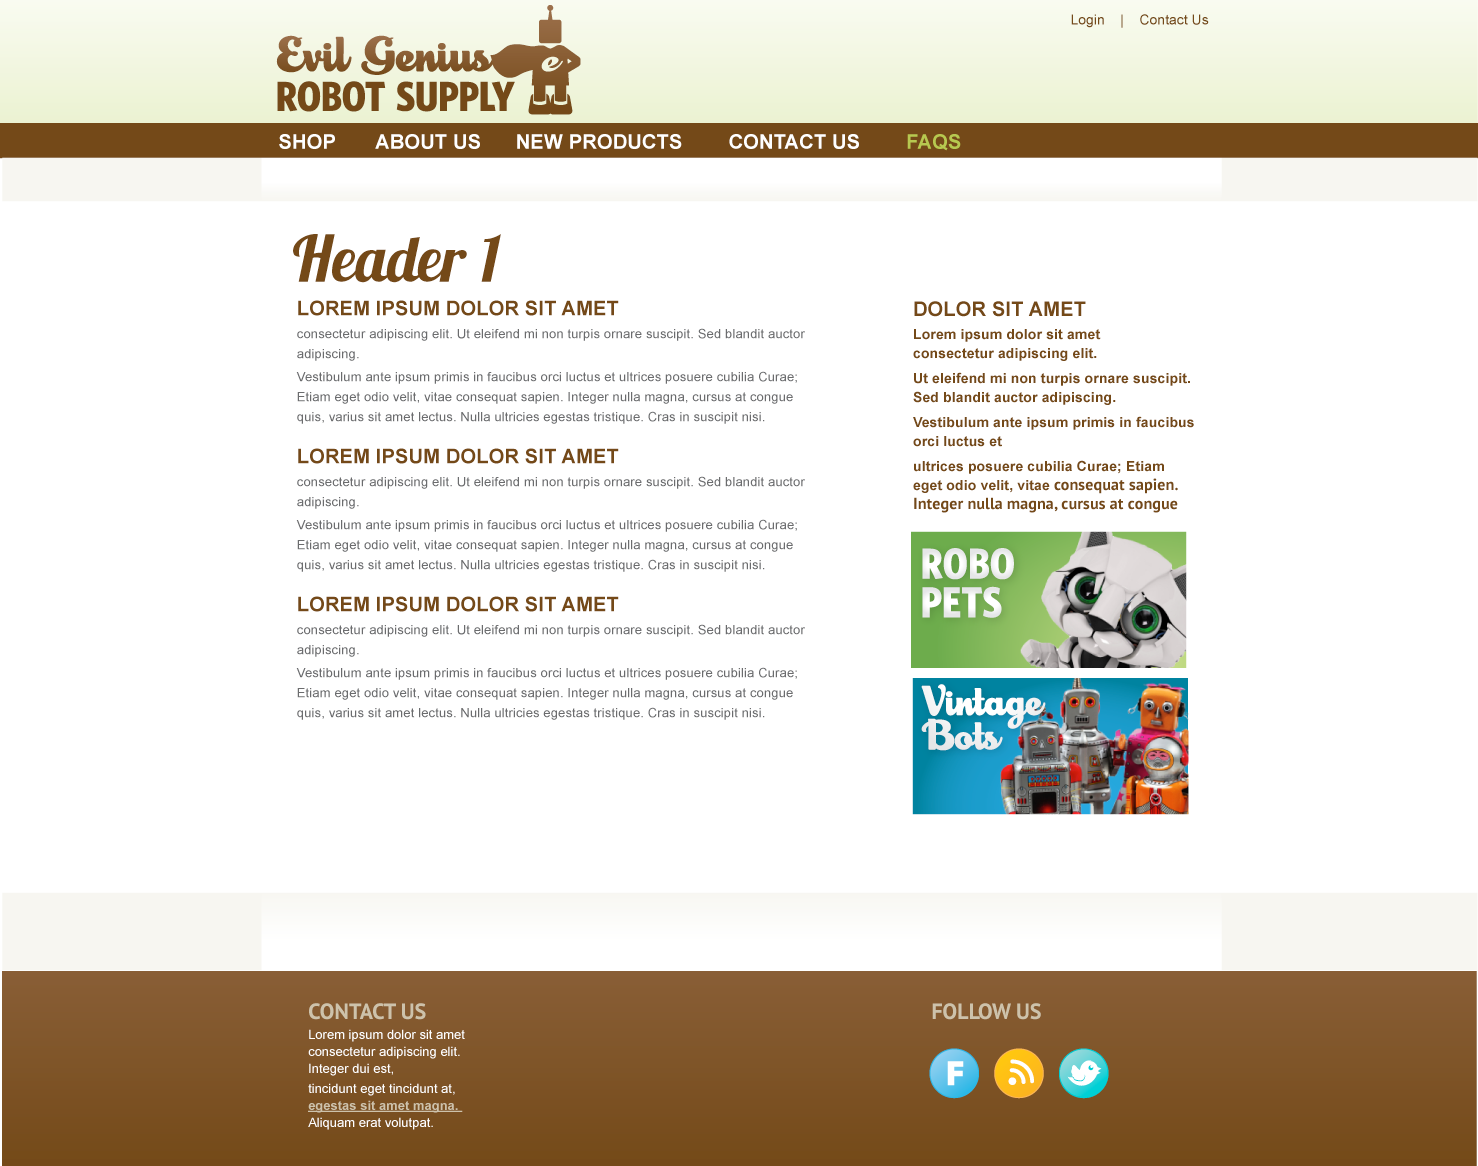
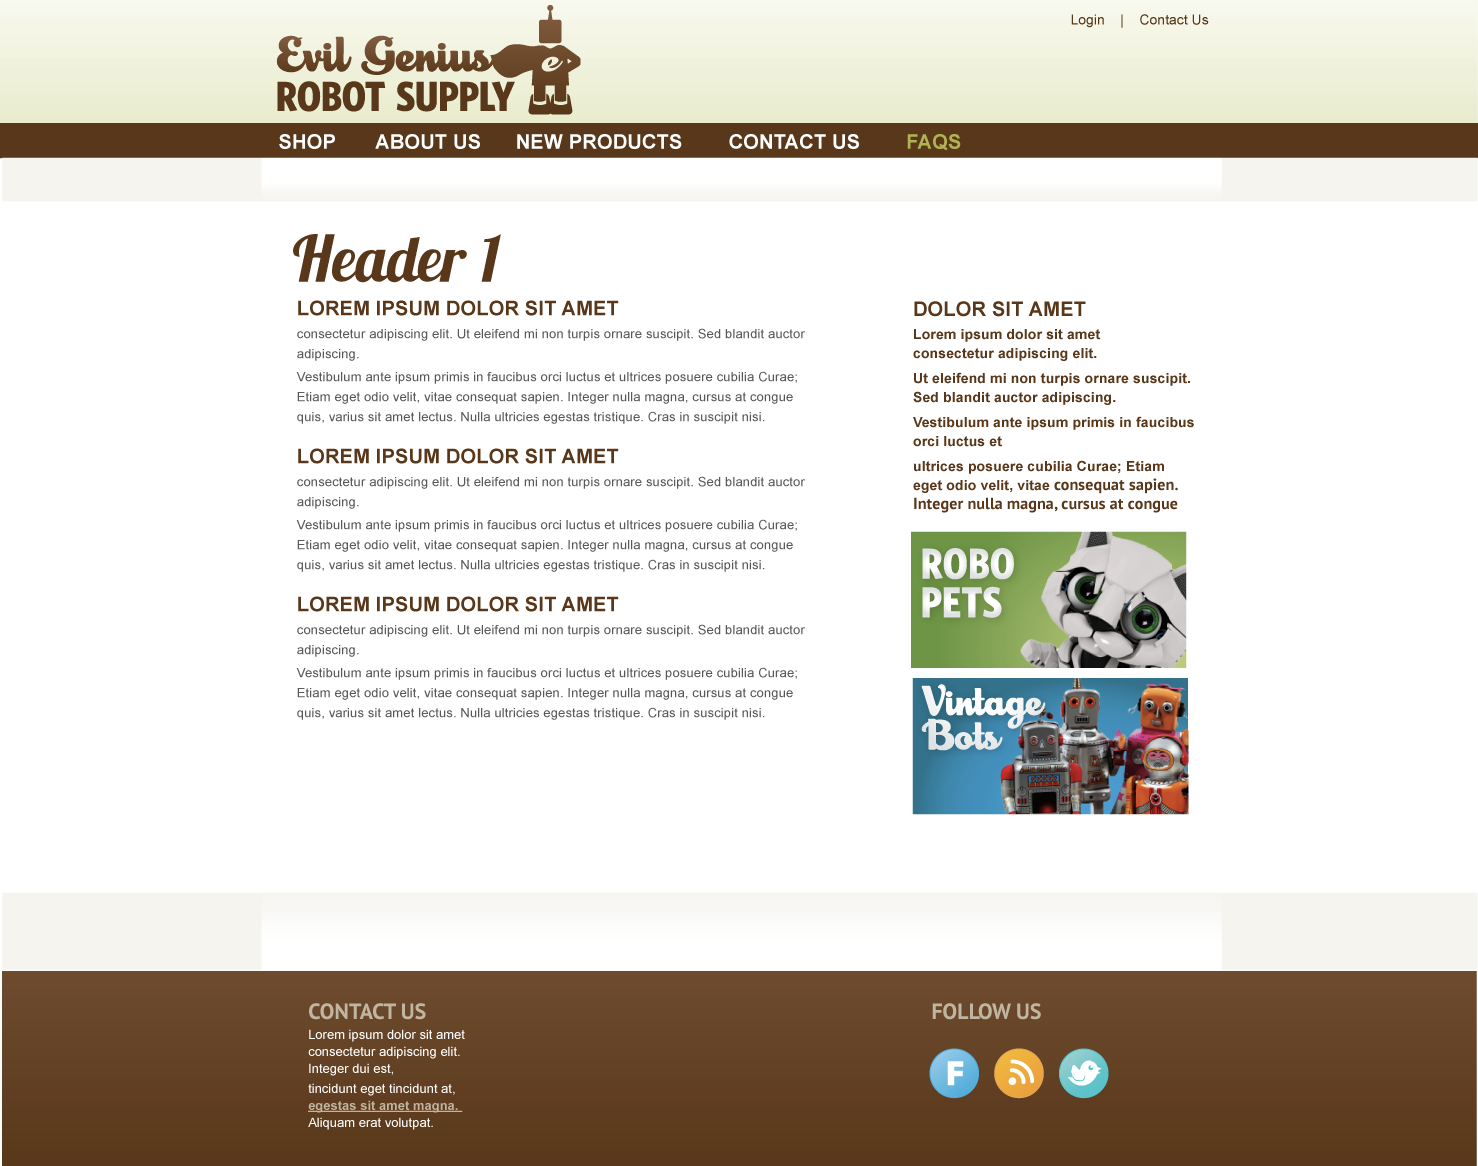
Exercise 2 Attempt

diff --git a/04-class-css/exercise2/style.css b/04-class-css/exercise2/style.css
@@ -50,3 +50,142 @@ table {
 	border-spacing: 0;
 }
 
+body { 
+	width:960px; 
+	margin:0 auto; 
+	display:block; 
+}
+
+div#site-wrapper {
+	width: 100%;
+	height: 125px;
+	background-color: rgb(236,242,210);
+}
+
+header#site-header h1 {
+	background: url(images/logo.png) no-repeat;
+	height: 120px;
+	width: 450px;
+	position: relative;
+	padding-left: 
+	
+}
+
+header#site-header nav {
+	font-family: arial;
+	font-size: .8em; 
+	float: right;
+	top: 25px;
+	right: 0;
+	width: 200px;
+	color: rgb(116,73,24)
+	
+}
+
+div#menu-wrapper {
+	background-color: rgb(116,73,24);
+	height: 30px;
+	margin-bottom: 10px;
+}
+
+nav#main-menu ul li {
+	display: inline;
+	width: 100%;
+}
+
+nav#main-menu ul li a {
+	font-family: arial;
+	font-size: 1.3em;
+	color: white;
+	margin-right: 20px;
+	text-transform: uppercase;
+	text-decoration: none;
+	
+}
+
+nav#main-menu ul li a:hover {
+	color:rgb(183,200,80);
+}
+
+div#content-wrapper {
+	float: left;
+	height:100%;
+	clear: both;
+	margin-bottom: 75px;
+}
+
+div#content-wrapper div#content article {
+	float: left;
+	width: 500px;
+	margin-right: 200px
+	
+}
+
+div#content-wrapper aside#sidebar {
+	float: right;
+	width: 160px;	
+}
+
+div#content-wrapper aside#sidebar a {
+	text-decoration: none;
+	font-family: arial;
+	color:rgb(116,73,24);
+	font-size: 1em;
+}
+
+div#footer-wrapper footer#site-footer {
+	width: 960px;
+	height: 150px;
+	float: left;
+	background-color: rgb(116,73,24);
+}
+
+div#footer-wrapper footer#site-footer section#footer-contact {
+	width: 150px;
+	float: left;
+}
+
+
+
+div#footer-wrapper footer#site-footer section#footer-follow {
+	float: right;
+}
+
+section#footer-follow h1, section#footer-contact h1 {
+	color: rgb(205,194,171);
+}
+
+div#footer-wrapper footer#site-footer section#footer-follow ul li {
+	display: inline;
+	width: 5px;
+	height: 5px;
+}
+
+h1 {
+	font-family: arial;
+	font-size: 1.2em;
+	color: rgb(116,73,24);	
+}
+
+h2 {
+	font-family: arial;
+	font-size: 1.3em;
+	font-weight: bold;
+	color: rgb(116,73,24);
+	margin-top: 10px;
+	margin-bottom: 5px;
+}
+
+p {
+	font-family: arial;
+	font-size: .8em;
+	line-height: 1.2em;
+	color: rgb(159,160,161)
+}
+
+div#footer-wrapper footer#site-footer section#footer-contact p {
+	font-family: arial; 
+	font-size: .6em;
+	color: #ffffff;
+	line-height: 1.2em;
+}
